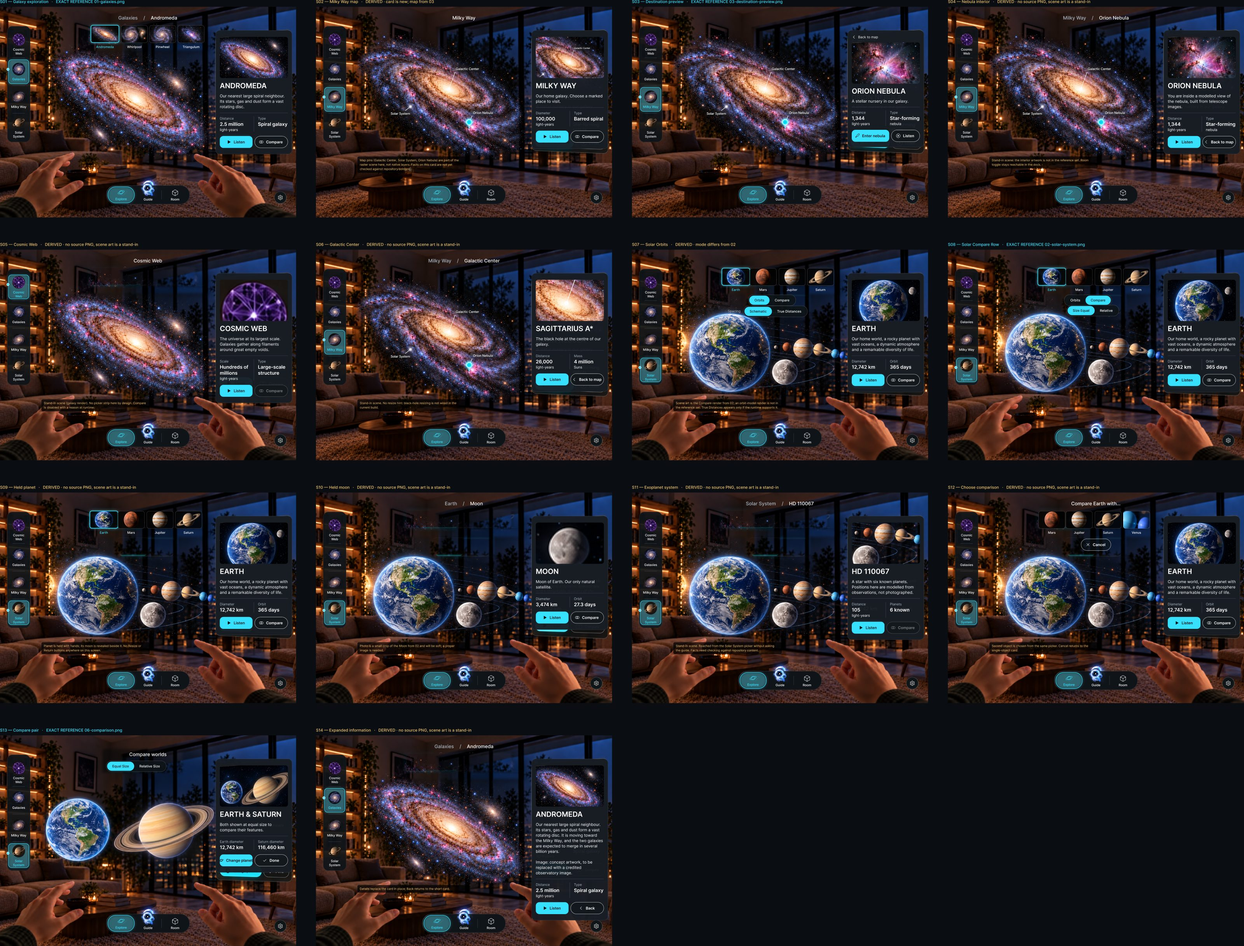
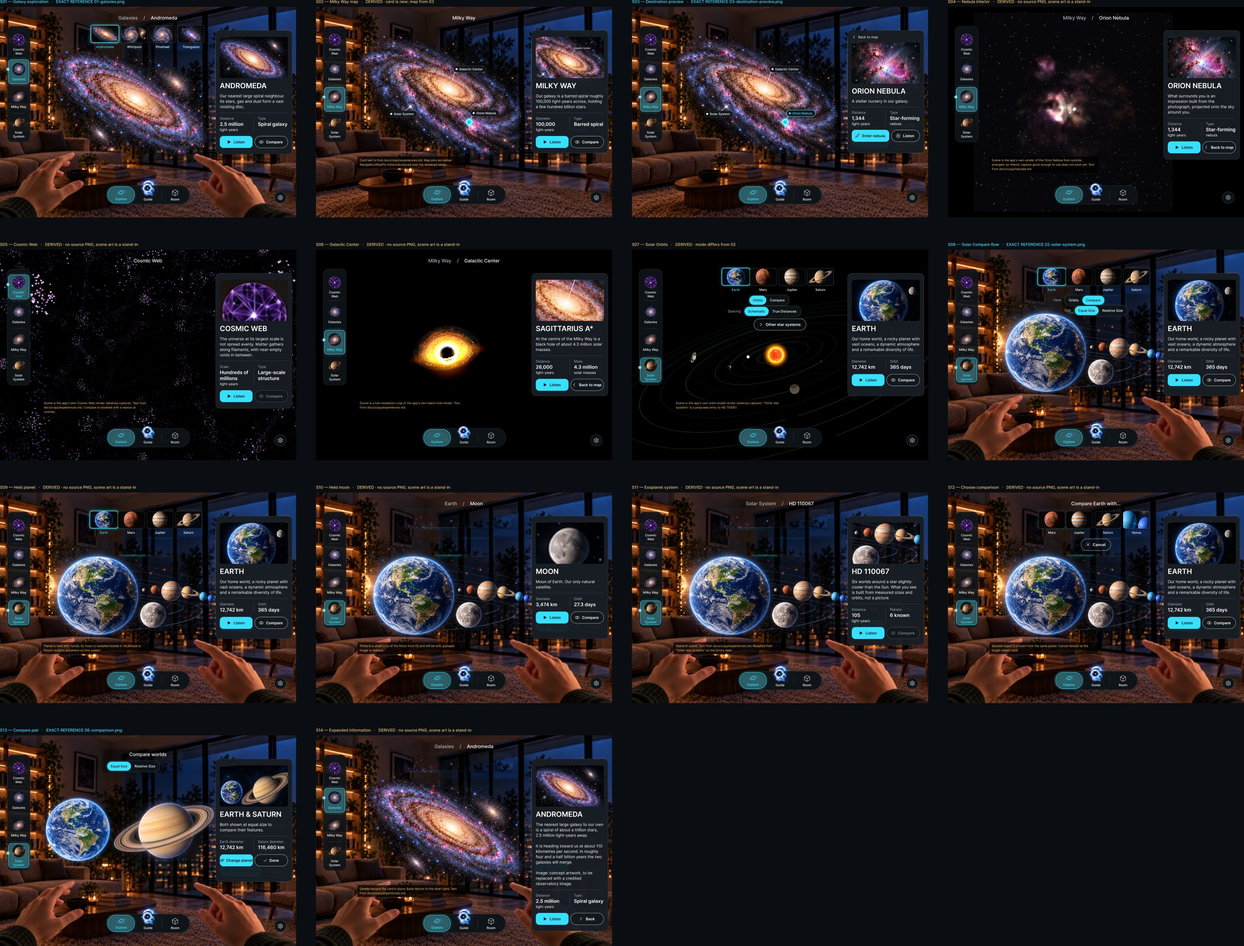
V2 review pass: Unity-render scenes, repo copy, native map pins, spec wording, contrast
Second pass over the Figma UI 2.0 transfer. Details and remaining open
items are in docs/design/v2/FIGMA_PROGRESS.md.

Claude-Session: https://claude.ai/code/session_01FZya58ektwtapqCUZrxF6x

diff --git a/docs/design/v2/FIGMA_PROGRESS.md b/docs/design/v2/FIGMA_PROGRESS.md
@@ -1,6 +1,6 @@
 # Figma transfer progress
 
-Status: **built, awaiting owner review** (13 Oct 2026, local terminal session). Everything in V2-001 to V2-012 exists in Figma. V2-013 and V2-014 are not closed: fidelity evidence exists for the seven exact-reference screens, but contrast is unmeasured, derived screens use stand-in scenes, and the open items below have no owner response.
+Status: **built, awaiting owner review** (13 Oct 2026, local terminal session). Everything in V2-001 to V2-012 exists in Figma. V2-013 and V2-014 are not closed: fidelity evidence exists for the seven exact-reference screens, but some derived screens still lack proper scene art, and the open items below have no owner response.
 
 File: https://www.figma.com/design/dx6MxAxPqZ9QBSRJqCCVev/ (existing file; original pages untouched).
 Prototype page: https://www.figma.com/design/dx6MxAxPqZ9QBSRJqCCVev/?node-id=39-21
@@ -11,7 +11,7 @@ Prototype page: https://www.figma.com/design/dx6MxAxPqZ9QBSRJqCCVev/?node-id=39-
 | V2-002 | done | Eight PNGs opened; SHA-256 and 1487 × 1058 match `references.json`. Measurements below. |
 | V2-003 | done | Ten `V2 /` pages; eight labelled reference frames on the Read me page. |
 | V2-004 | done | Four variable collections, seven text styles, Foundations specimen `40:44`. Contrast not measured. |
-| V2-005 | in review | 22 components/sets with variants (`evidence/components-library.jpg` shows the first 18). Larger-text and long-label check on the Layouts page (`evidence/layouts.jpg`): cards grow from 706 to 780 to 889 px, nothing clipped. |
+| V2-005 | in review | 23 components/sets with variants (`evidence/components-library.jpg` shows the first 18). Larger-text and long-label check on the Layouts page (`evidence/layouts.jpg`): cards grow from 706 to 780 to 889 px, nothing clipped. |
 | V2-006 | in review | S01 `44:409`; `evidence/S01-*`. Deviations under "Open items". |
 | V2-007 | in review | S02–S14 on the Explore page (`evidence/explore-S01-S14.jpg`). Exact: S03, S08, S13. Derived frames carry an on-frame note. |
 | V2-008 | in review | S15–S22 on the Guide page (`evidence/guide-S15-S22.jpg`). Exact: S17. |
@@ -19,7 +19,7 @@ Prototype page: https://www.figma.com/design/dx6MxAxPqZ9QBSRJqCCVev/?node-id=39-
 | V2-010 | in review | S28–S32, same evidence file. Exact: S29. |
 | V2-011 | in review | S33–S39 (`evidence/flows-S33-S39.jpg`), Layouts page (`evidence/layouts.jpg`). |
 | V2-012 | in review | 39 frames cloned to the Prototype page, about 290 reactions, ten named flows. Read-back: no frame without an outgoing link. Gaps listed below. |
-| V2-013 | in progress | Export, side-by-side and 50% overlay for the seven exact references under `evidence/`. Not done: contrast measurement, separate foreground/background diff, measured bounds for screens other than S01. |
+| V2-013 | in progress | Export, side-by-side and 50% overlay for the seven exact references under `evidence/`. Contrast measured (see Review pass). Not done: separate foreground/background diff, measured bounds for screens other than S01, refreshed per-screen comparisons for S08 and S23. |
 | V2-014 | in progress | This file, Handoff page, `manifest.json`. Tickets are not closed pending the owner's review. |
 
 ## Pages
@@ -63,6 +63,7 @@ Text styles: `V2/Title` 36/42 Semi Bold, `V2/Heading` 24/30 Medium, `V2/Body` 20
 | Navigation/Rail | `44:282` | — |
 | Navigation/DestinationTile | `44:315` | Default/Selected/Loading/Unavailable; `Text` |
 | Navigation/Breadcrumb | `44:317` | — |
+| Navigation/MapPin | `71:395` | Default/Selected/Hover; `Text` |
 | Card/FactPair | `44:321` | — |
 | Card/Information | `44:407` | Narration Off/Playing/Paused |
 | Card/DestinationPreview | `53:273` | Ready/Loading/Unavailable |
@@ -152,6 +153,22 @@ Page overviews: `components-library.jpg`, `explore-S01-S14.jpg`, `guide-S15-S22.
 
 Device validation: unrun.
 
+## Review pass (13 Oct 2026, second pass)
+
+- **Scene art.** S04, S05, S06, S07 and S38 now use the app's own Unity renders (desktop captures from `Logs/` and `.utmp/shots/`) instead of a reference scene. The Sagittarius A* and Orion renders are low resolution; no interior nebula capture is good enough to use.
+- **Copy.** Derived cards use the wording in `docs/copy/experiences.md`, `nebulae.md` and `moons.md` (Milky Way, Cosmic Web, Sagittarius A*, Orion interior, HD 110067, Andromeda details, Moon). Sagittarius A* mass corrected from "4 million" to "4.3 million solar masses".
+- **Map pins.** New `Navigation/MapPin` component (`71:395`, Default/Selected/Hover, `Text` property). Instances sit over the rendered labels on S02, S03, S33, S34, S35 and are wired in the prototype.
+- **Spec wording.** `Settings/Panel`: About reads "Version and credits"; Restore scene reads "Put objects in this place back". S08 and S36: "View" and "Size" labels outside the controls, "Equal Size / Relative Size". Both depart from the reference images on purpose, following V2-009 and the copy table.
+- **S11.** Reachable from a proposed "Other star systems" button on S07.
+- **Narration.** Prototype frame `S01b` (`71:4243`) shows the Playing state; Listen and Pause toggle between it and S01.
+- **Selected states.** The glow no longer shows through translucent fills; selected rail, dock and tile states are dark with a cyan outline, as in the references. Cards, dock and rail are opaque so the rendered copies underneath do not show through.
+- **Contrast** (WCAG ratio, flat colours; table also on the Design system page): primary text on panel 16.9:1, on deep 18.6:1; secondary text on panel 8.2:1, on deep 9.0:1; dark text on accent 11.8:1; accent text on panel 10.8:1; attention 10.5:1; error 10.0:1; divider 2.0:1 (decorative). Text over passthrough is not covered by these numbers.
+- **Prototype click-through** (Chrome, Figma prototype view): S01 → rail Milky Way → S02 → Orion pin → S03 → Enter nebula → S33 → timer → S04; dock Guide → S15 → Start listening → S16; settings gear → S23. All navigated. Other flows were verified by reading the links back, not by clicking.
+
+Buttons with no link in the prototype, by design or not yet designed: Compare on galaxy and non-planet cards (needs a metric decision), Listen outside S01, Mic on, Transcript, Quit's final step, About's Close-to-source links.
+
+The per-screen comparison images under `evidence/` for S08 and S23 predate the wording change; the page overviews `explore-S01-S14.jpg` and `flows-S33-S39.jpg` are current.
+
 ## Open items
 
 Decisions taken without an owner response (all reversible):
@@ -159,16 +176,14 @@ Decisions taken without an owner response (all reversible):
 1. **Accent.** The `cyan/400` primitive is `#37E1FD`, sampled from the approved renders. `tokens.json` still says `#6CCFDD`.
 2. **Type scale.** Styles follow the canonical frame (36/24/20/17). `tokens.json` lists 28/22/16/14 and is unchanged.
 3. **Button radius and photo ratio** follow the canonical frame (18 and pill; about 1.64:1), not the tokens (12; 16:9).
+4. **Spec over reference** for the Settings and Solar wording above.
 
 Known deviations and gaps:
 
-4. Selawik is not available in Figma; Inter is used.
-5. Reference cards and rails are in perspective; native ones are flat. Where a native card is shorter than the rendered one it is stretched to the reference height.
-6. Map pins (S02, S03) and the Moon (S09) are raster in the scene art.
-7. S23 keeps the reference wording "Version 2.0" and "Recenter the simulation view"; the spec wants real version metadata and a restore that is separate from menu recovery.
-8. S08 keeps the reference label "Size Equal"; the copy table says "Size: Equal Size / Relative Size".
-9. S13 shows "Earth diameter / Saturn diameter" as fact labels; the reference stacks name, "Diameter", value.
-10. Facts and copy on derived cards (Milky Way, Cosmic Web, Sagittarius A*, Moon, HD 110067) and the Placement, About, Device chooser, Help index and desktop wording are proposed and not checked against repository content.
-11. Derived screens have no approved scene art (nebula interior, Cosmic Web, Galactic Center, orbit model, dark scene).
-12. Icons are hand-written SVG; the gear path is from Lucide (ISC licence).
-13. In S23 the rendered dock sits slightly lower than the native one and shows faintly beneath it.
+5. Selawik is not available in Figma; Inter is used.
+6. Reference cards and rails are in perspective; native ones are flat. Where a native card is shorter than the rendered one it is stretched to the reference height.
+7. Rendered pin labels and leader lines are still in the scene image under the native pins. The Moon on S09 is raster with a hotspot.
+8. S13 shows "Earth diameter / Saturn diameter" as fact labels; the reference stacks name, "Diameter", value.
+9. Placement, About, Device chooser, Help index, "Other star systems" and desktop wording are proposed.
+10. Icons are hand-written SVG; the gear path is from Lucide (ISC licence).
+11. Nothing has been tried on a headset.
